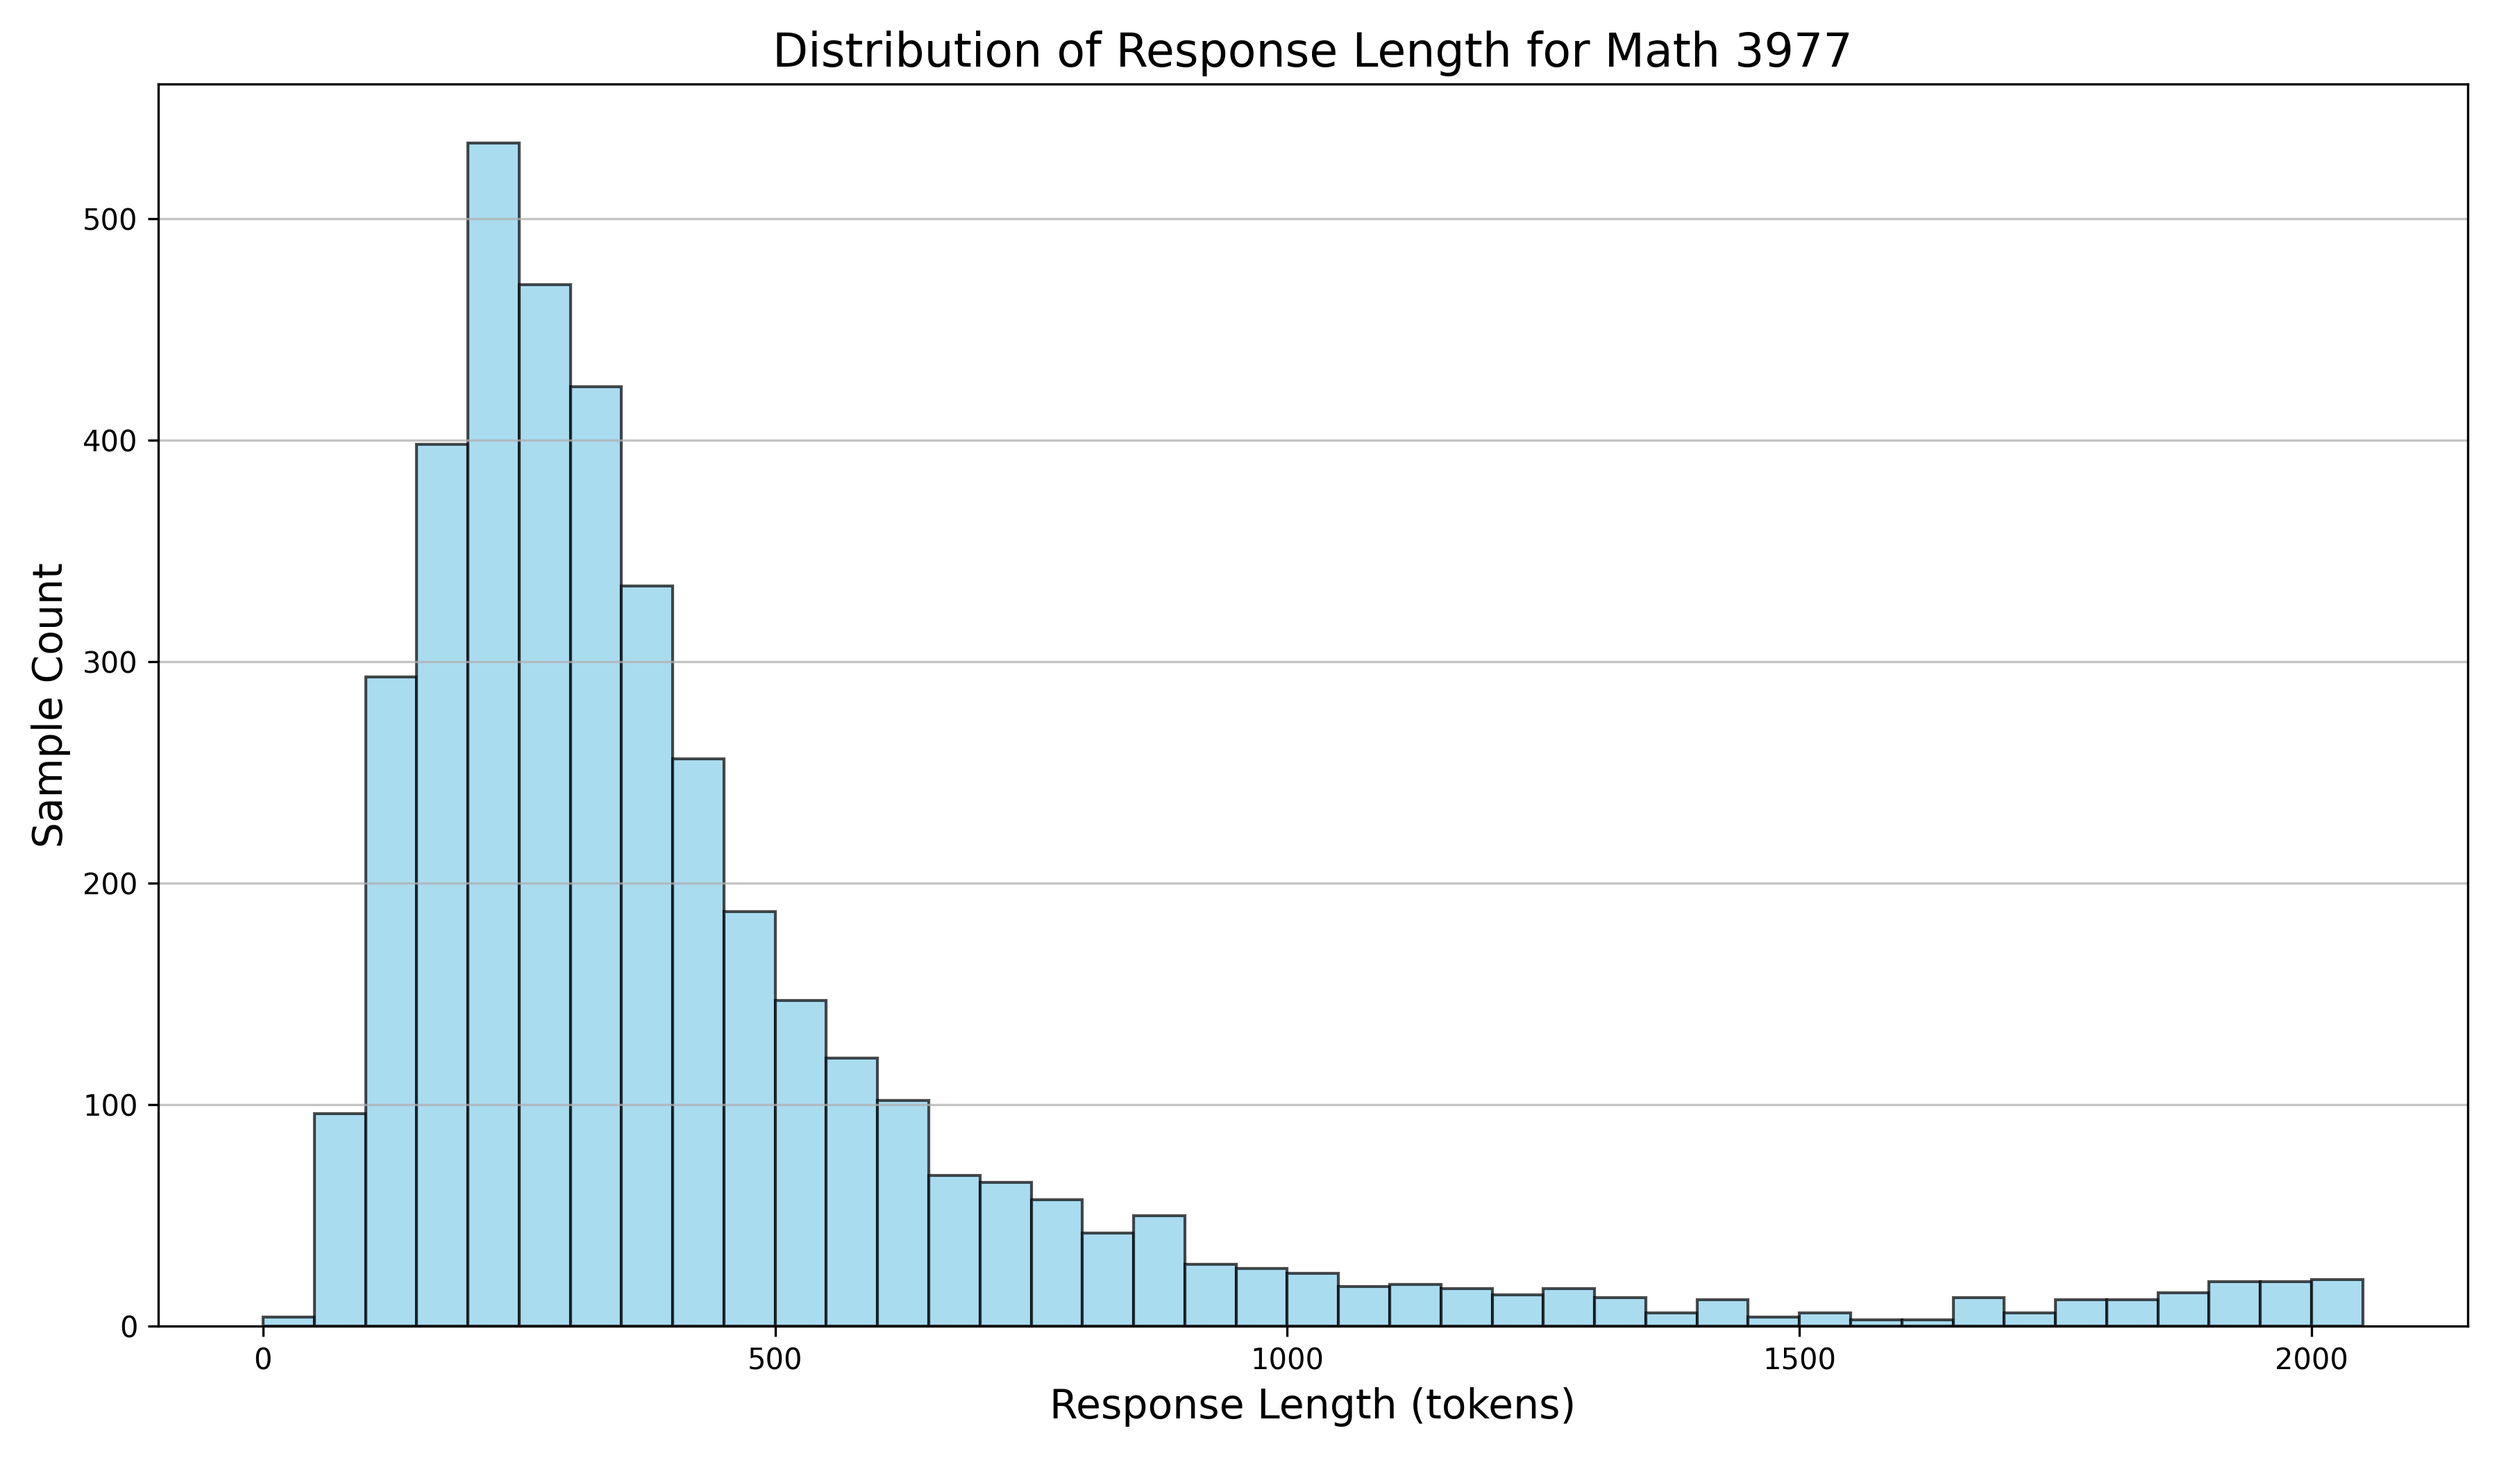
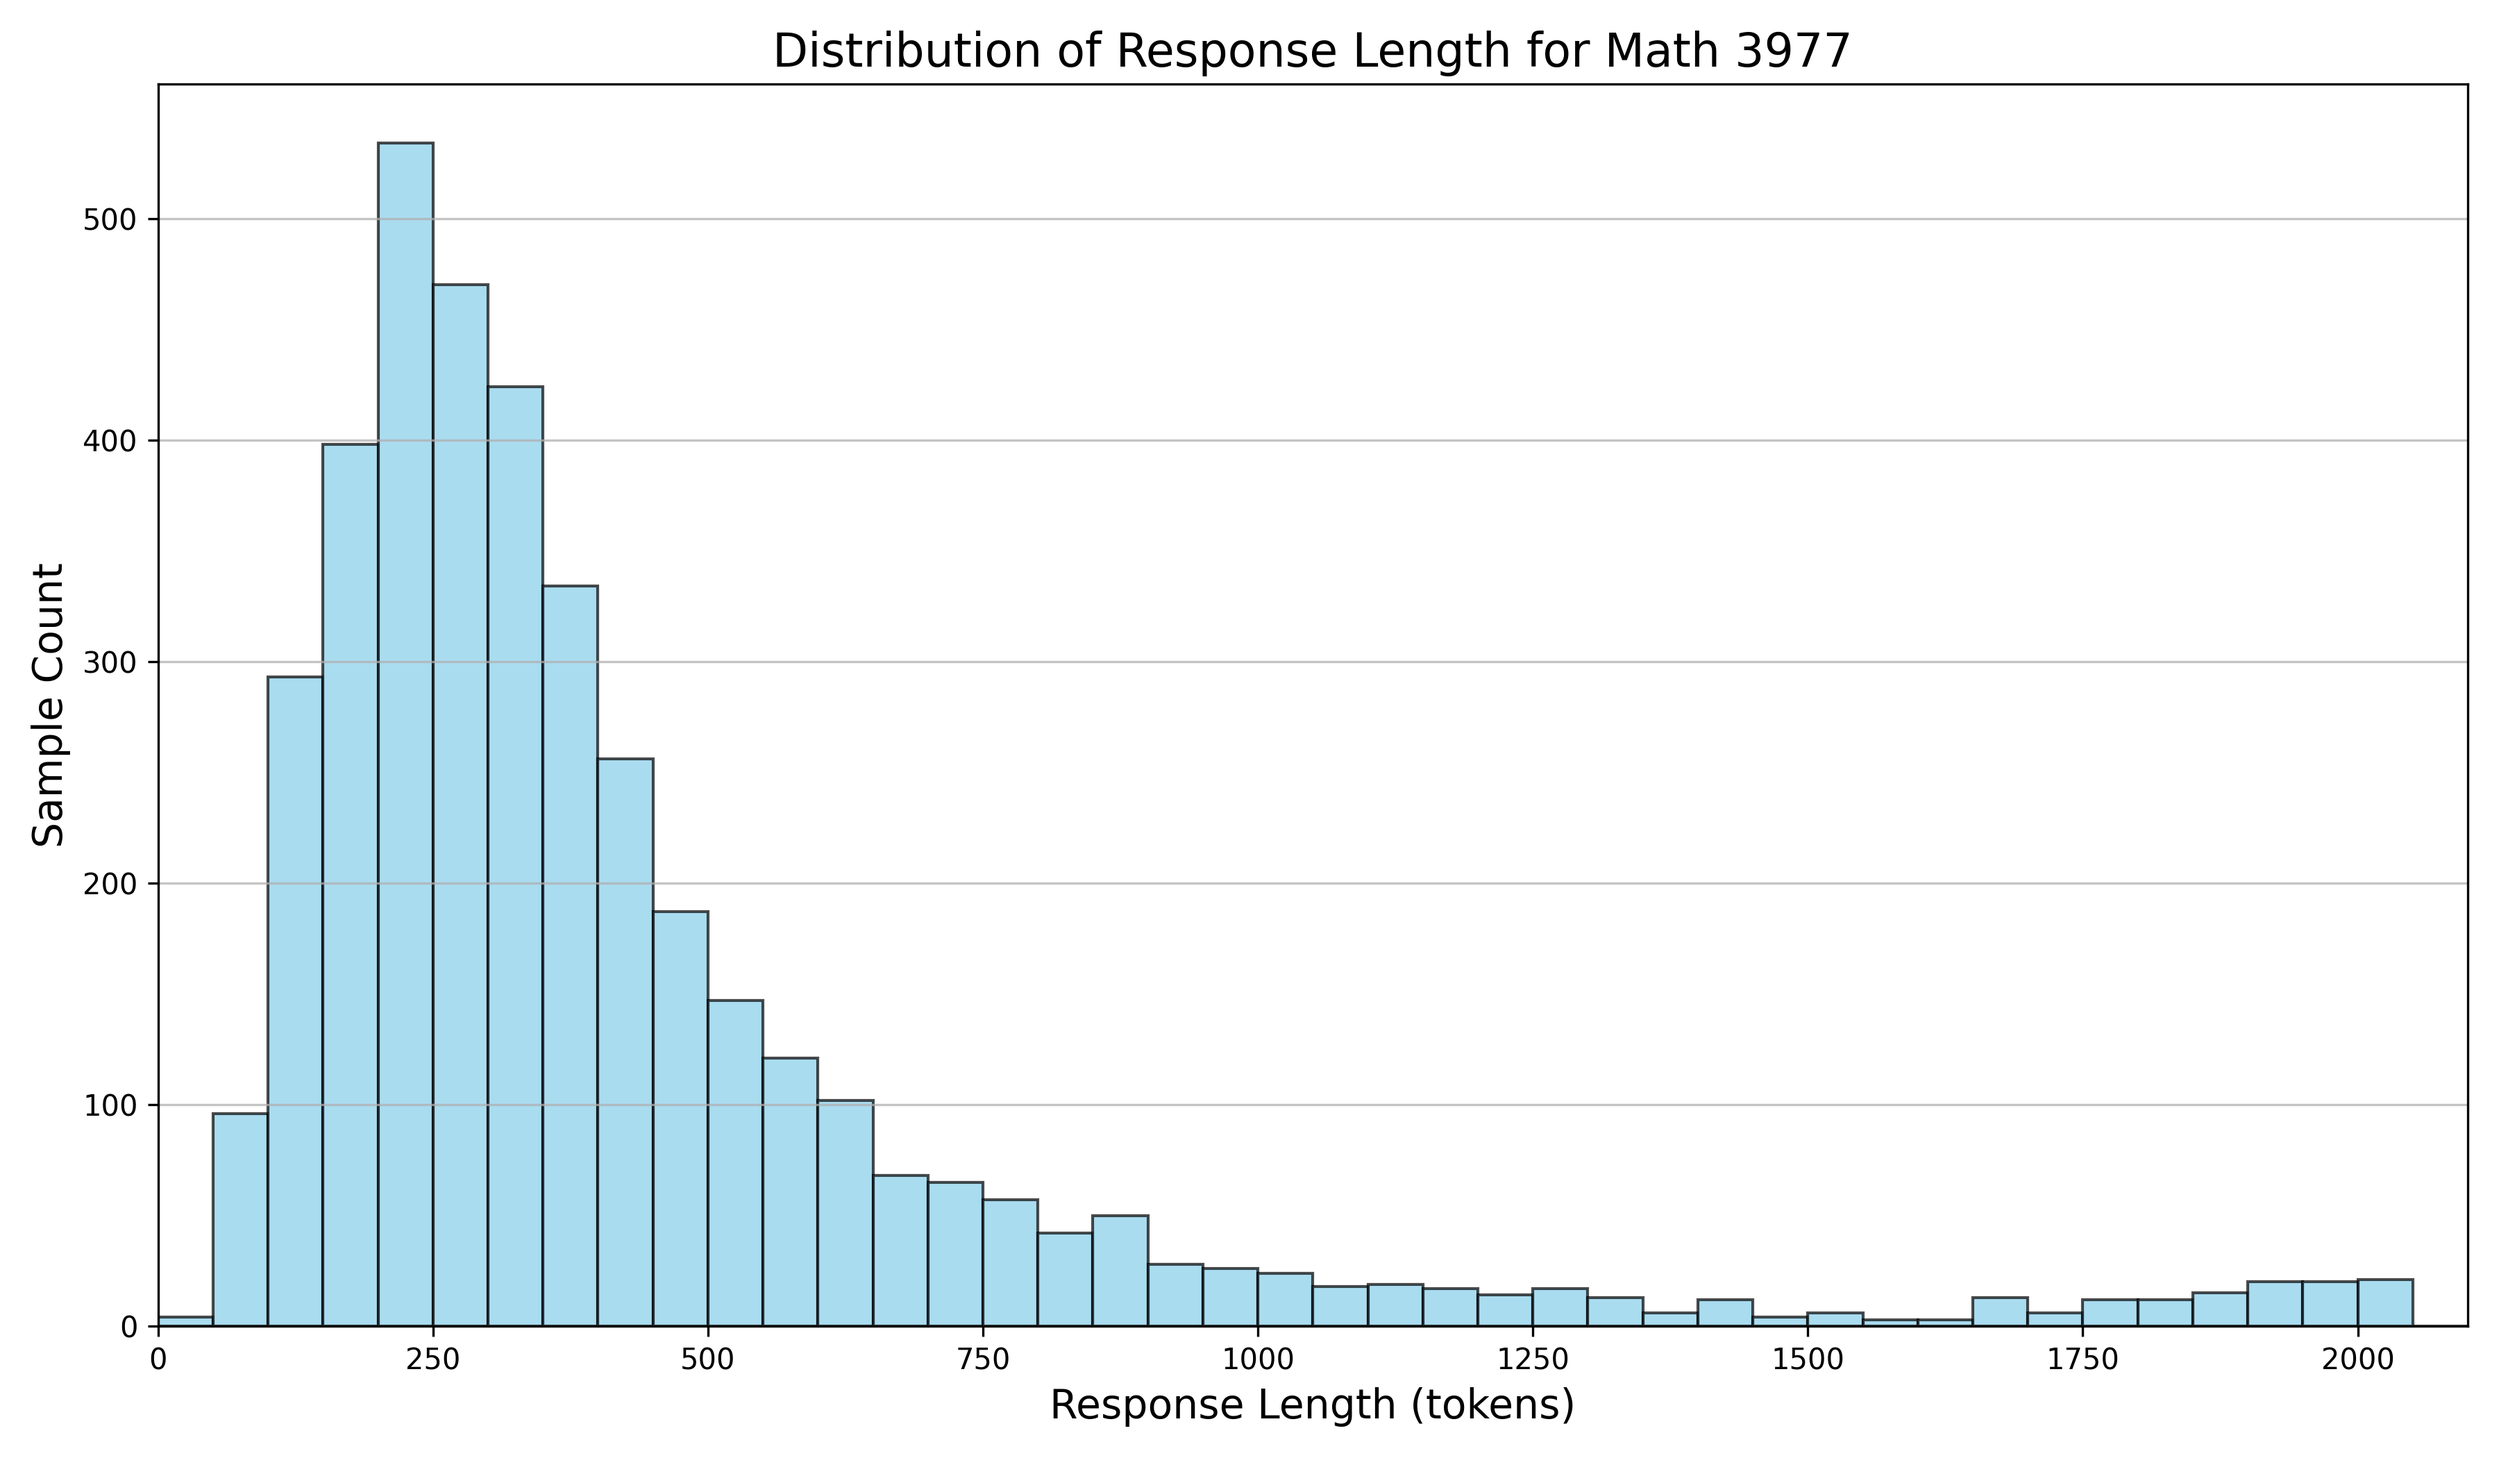
自适应纵坐标固定横坐标

diff --git a/length_distributions.py b/length_distributions.py
@@ -32,8 +32,8 @@ def load_results_from_jsonl(file_path):
         'stats': stats
     }
 
-def plot_distribution(result_data, dataset_name, output_dir='.'):
-    """绘制响应长度分布图，不包含平均值和中位数线"""
+def plot_distribution(result_data, dataset_name, output_dir='.', x_range=None):
+    """绘制响应长度分布图，使用固定的横坐标范围，纵坐标自适应"""
     response_lengths = result_data['response_lengths']
     
     if not response_lengths:
@@ -43,7 +43,11 @@ def plot_distribution(result_data, dataset_name, output_dir='.'):
     plt.figure(figsize=(12, 7))
     
     # 创建直方图，固定刻度
-    bins = range(0, max(response_lengths) + 50, 50)
+    if x_range:
+        bins = range(0, x_range + 50, 50)
+    else:
+        bins = range(0, max(response_lengths) + 50, 50)
+    
     plt.hist(response_lengths, bins=bins, color='skyblue', edgecolor='black', alpha=0.7)
     
     # 设置标题和标签（使用英文）
@@ -51,6 +55,10 @@ def plot_distribution(result_data, dataset_name, output_dir='.'):
     plt.ylabel('Sample Count', fontsize=14)
     plt.title(f'Distribution of Response Length for {dataset_name}', fontsize=16)
     plt.grid(axis='y', alpha=0.75)
+    
+    # 只设置固定的X轴范围
+    if x_range:
+        plt.xlim(0, x_range)
     
     # 保存图片
     output_file = os.path.join(output_dir, f'{dataset_name}_response_length_distribution.png')
@@ -74,16 +82,38 @@ def main():
     # 确保输出目录存在
     os.makedirs(output_dir, exist_ok=True)
     
-    # 处理每个数据集并绘图
-    for input_file, dataset_name in zip(input_files, dataset_names):
+    # 首先读取所有数据集，找出最大的x值
+    all_data = []
+    max_x = 0
+    
+    for input_file in input_files:
+        if os.path.exists(input_file):
+            try:
+                result_data = load_results_from_jsonl(input_file)
+                all_data.append(result_data)
+                
+                # 更新最大x值
+                if result_data['response_lengths']:
+                    max_x = max(max_x, max(result_data['response_lengths']))
+            except Exception as e:
+                print(f"读取文件 {input_file} 时出错: {e}")
+    
+    # 向上取整到最接近的百或千
+    max_x = int(np.ceil(max_x / 100.0)) * 100
+    
+    print(f"设置所有图表的X轴范围为: 0-{max_x}")
+    print(f"Y轴范围将根据每个数据集自适应调整")
+    
+    # 使用相同的X轴范围绘制所有图表，Y轴自适应
+    for i, (input_file, dataset_name) in enumerate(zip(input_files, dataset_names)):
         print(f"\n处理数据集可视化: {dataset_name}")
         try:
-            if os.path.exists(input_file):
-                result_data = load_results_from_jsonl(input_file)
+            if i < len(all_data):
+                result_data = all_data[i]
                 print(f"读取了 {len(result_data['results'])} 条数据，找到 {len(result_data['response_lengths'])} 个有效响应长度")
-                plot_distribution(result_data, dataset_name, output_dir)
+                plot_distribution(result_data, dataset_name, output_dir, max_x)
             else:
-                print(f"文件不存在: {input_file}")
+                print(f"数据集 {dataset_name} 的数据未能加载")
         except Exception as e:
             print(f"处理数据集 {dataset_name} 时出错: {e}")
 
